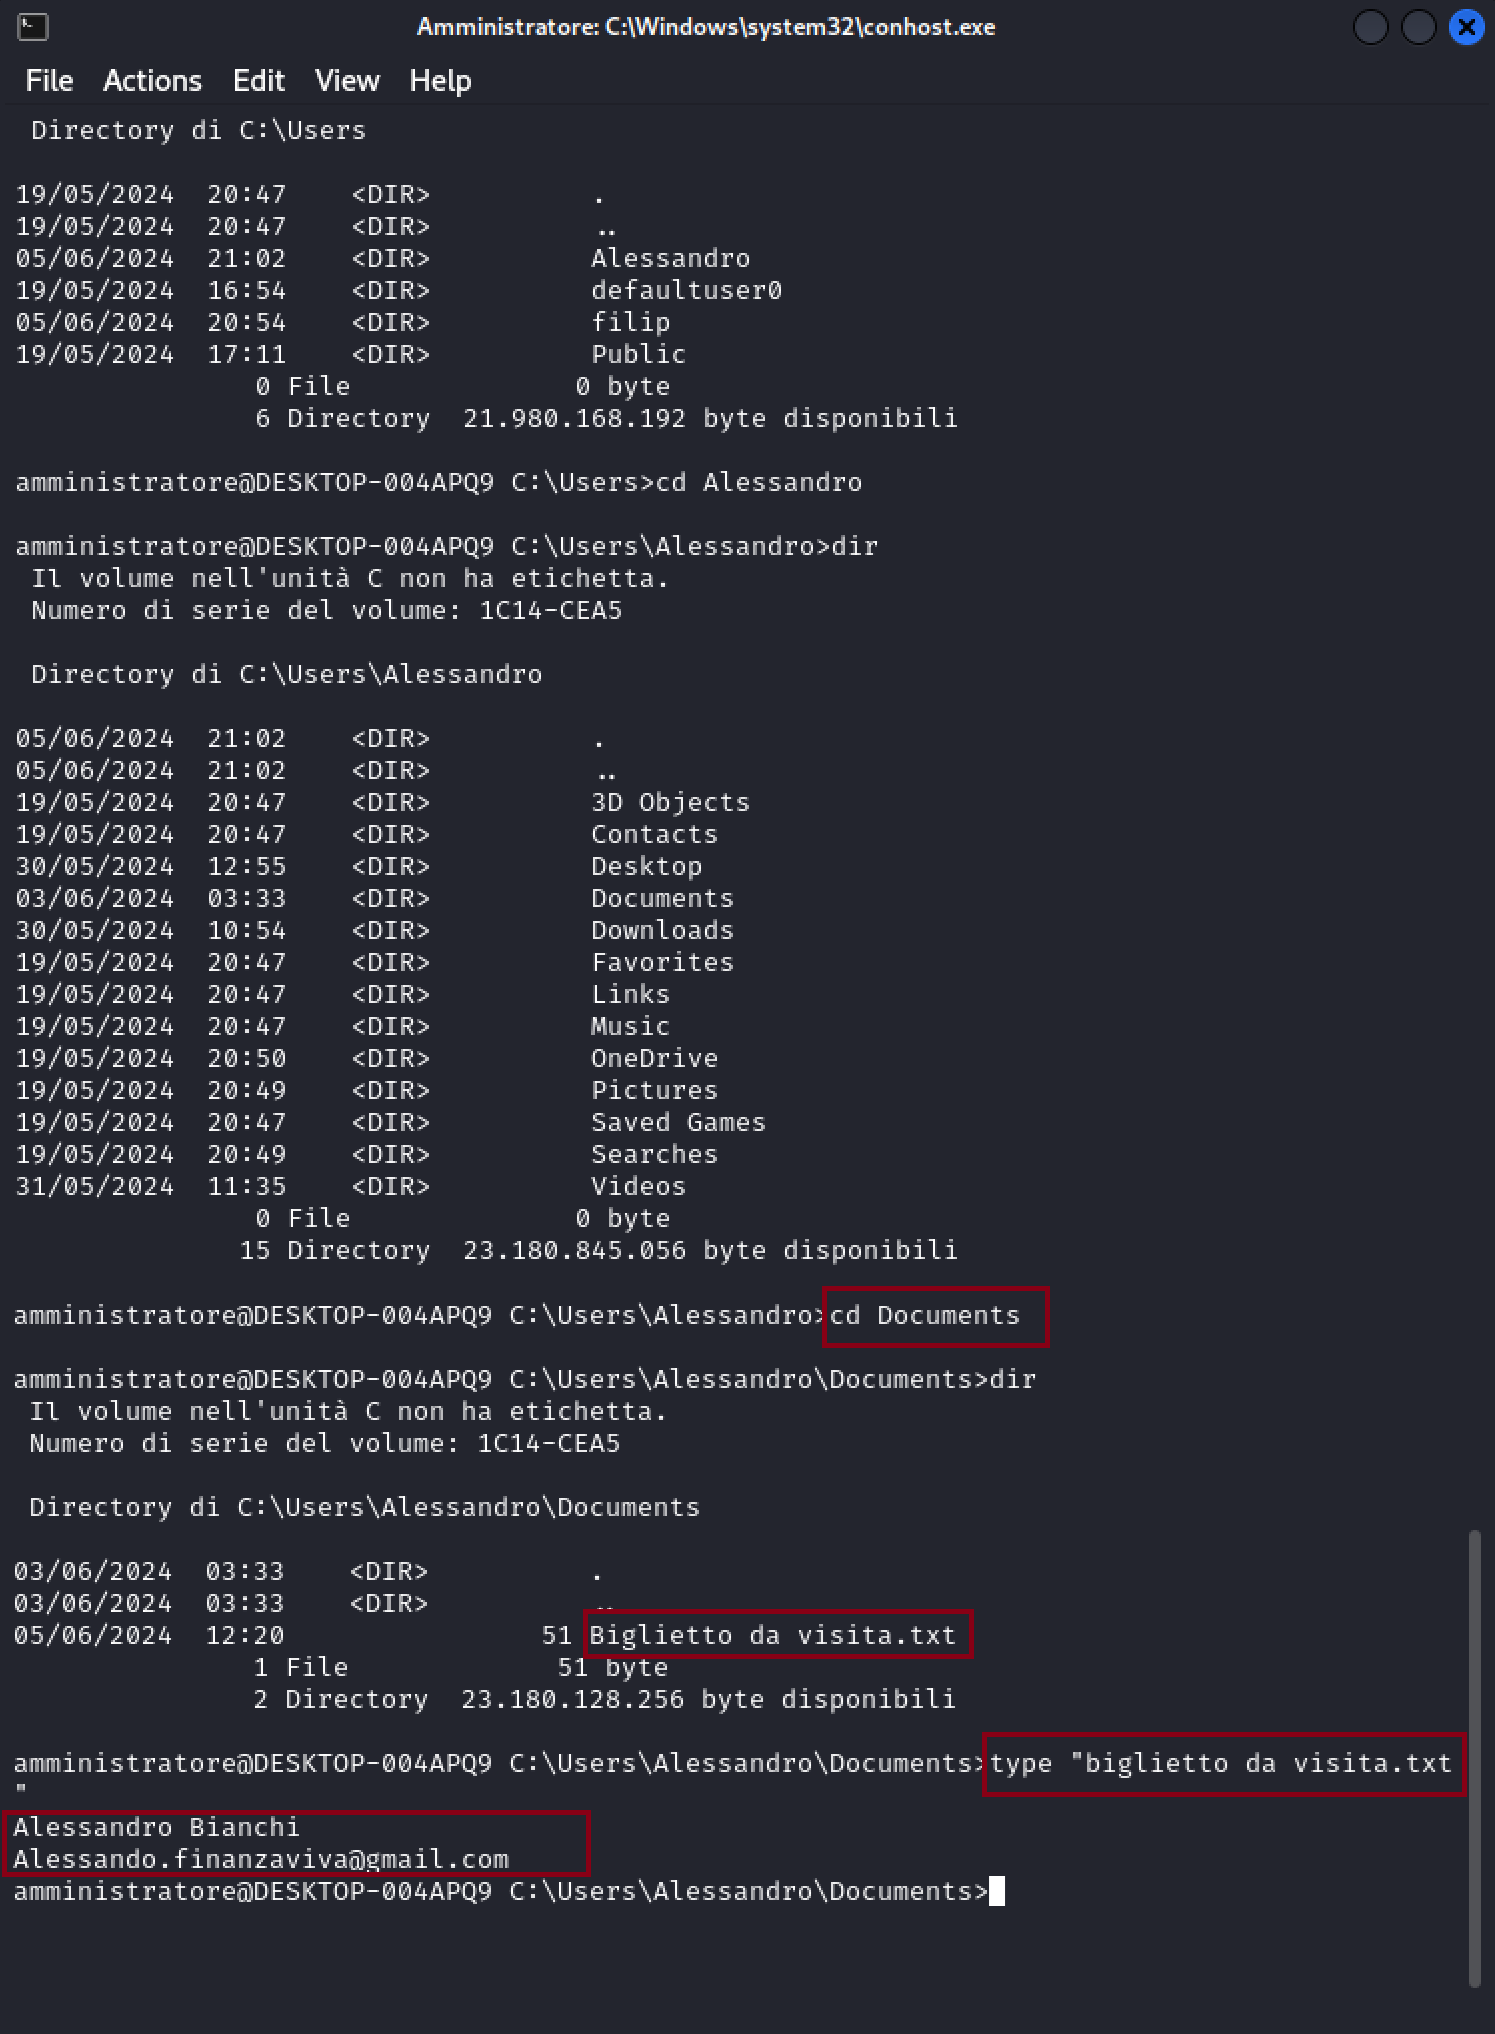
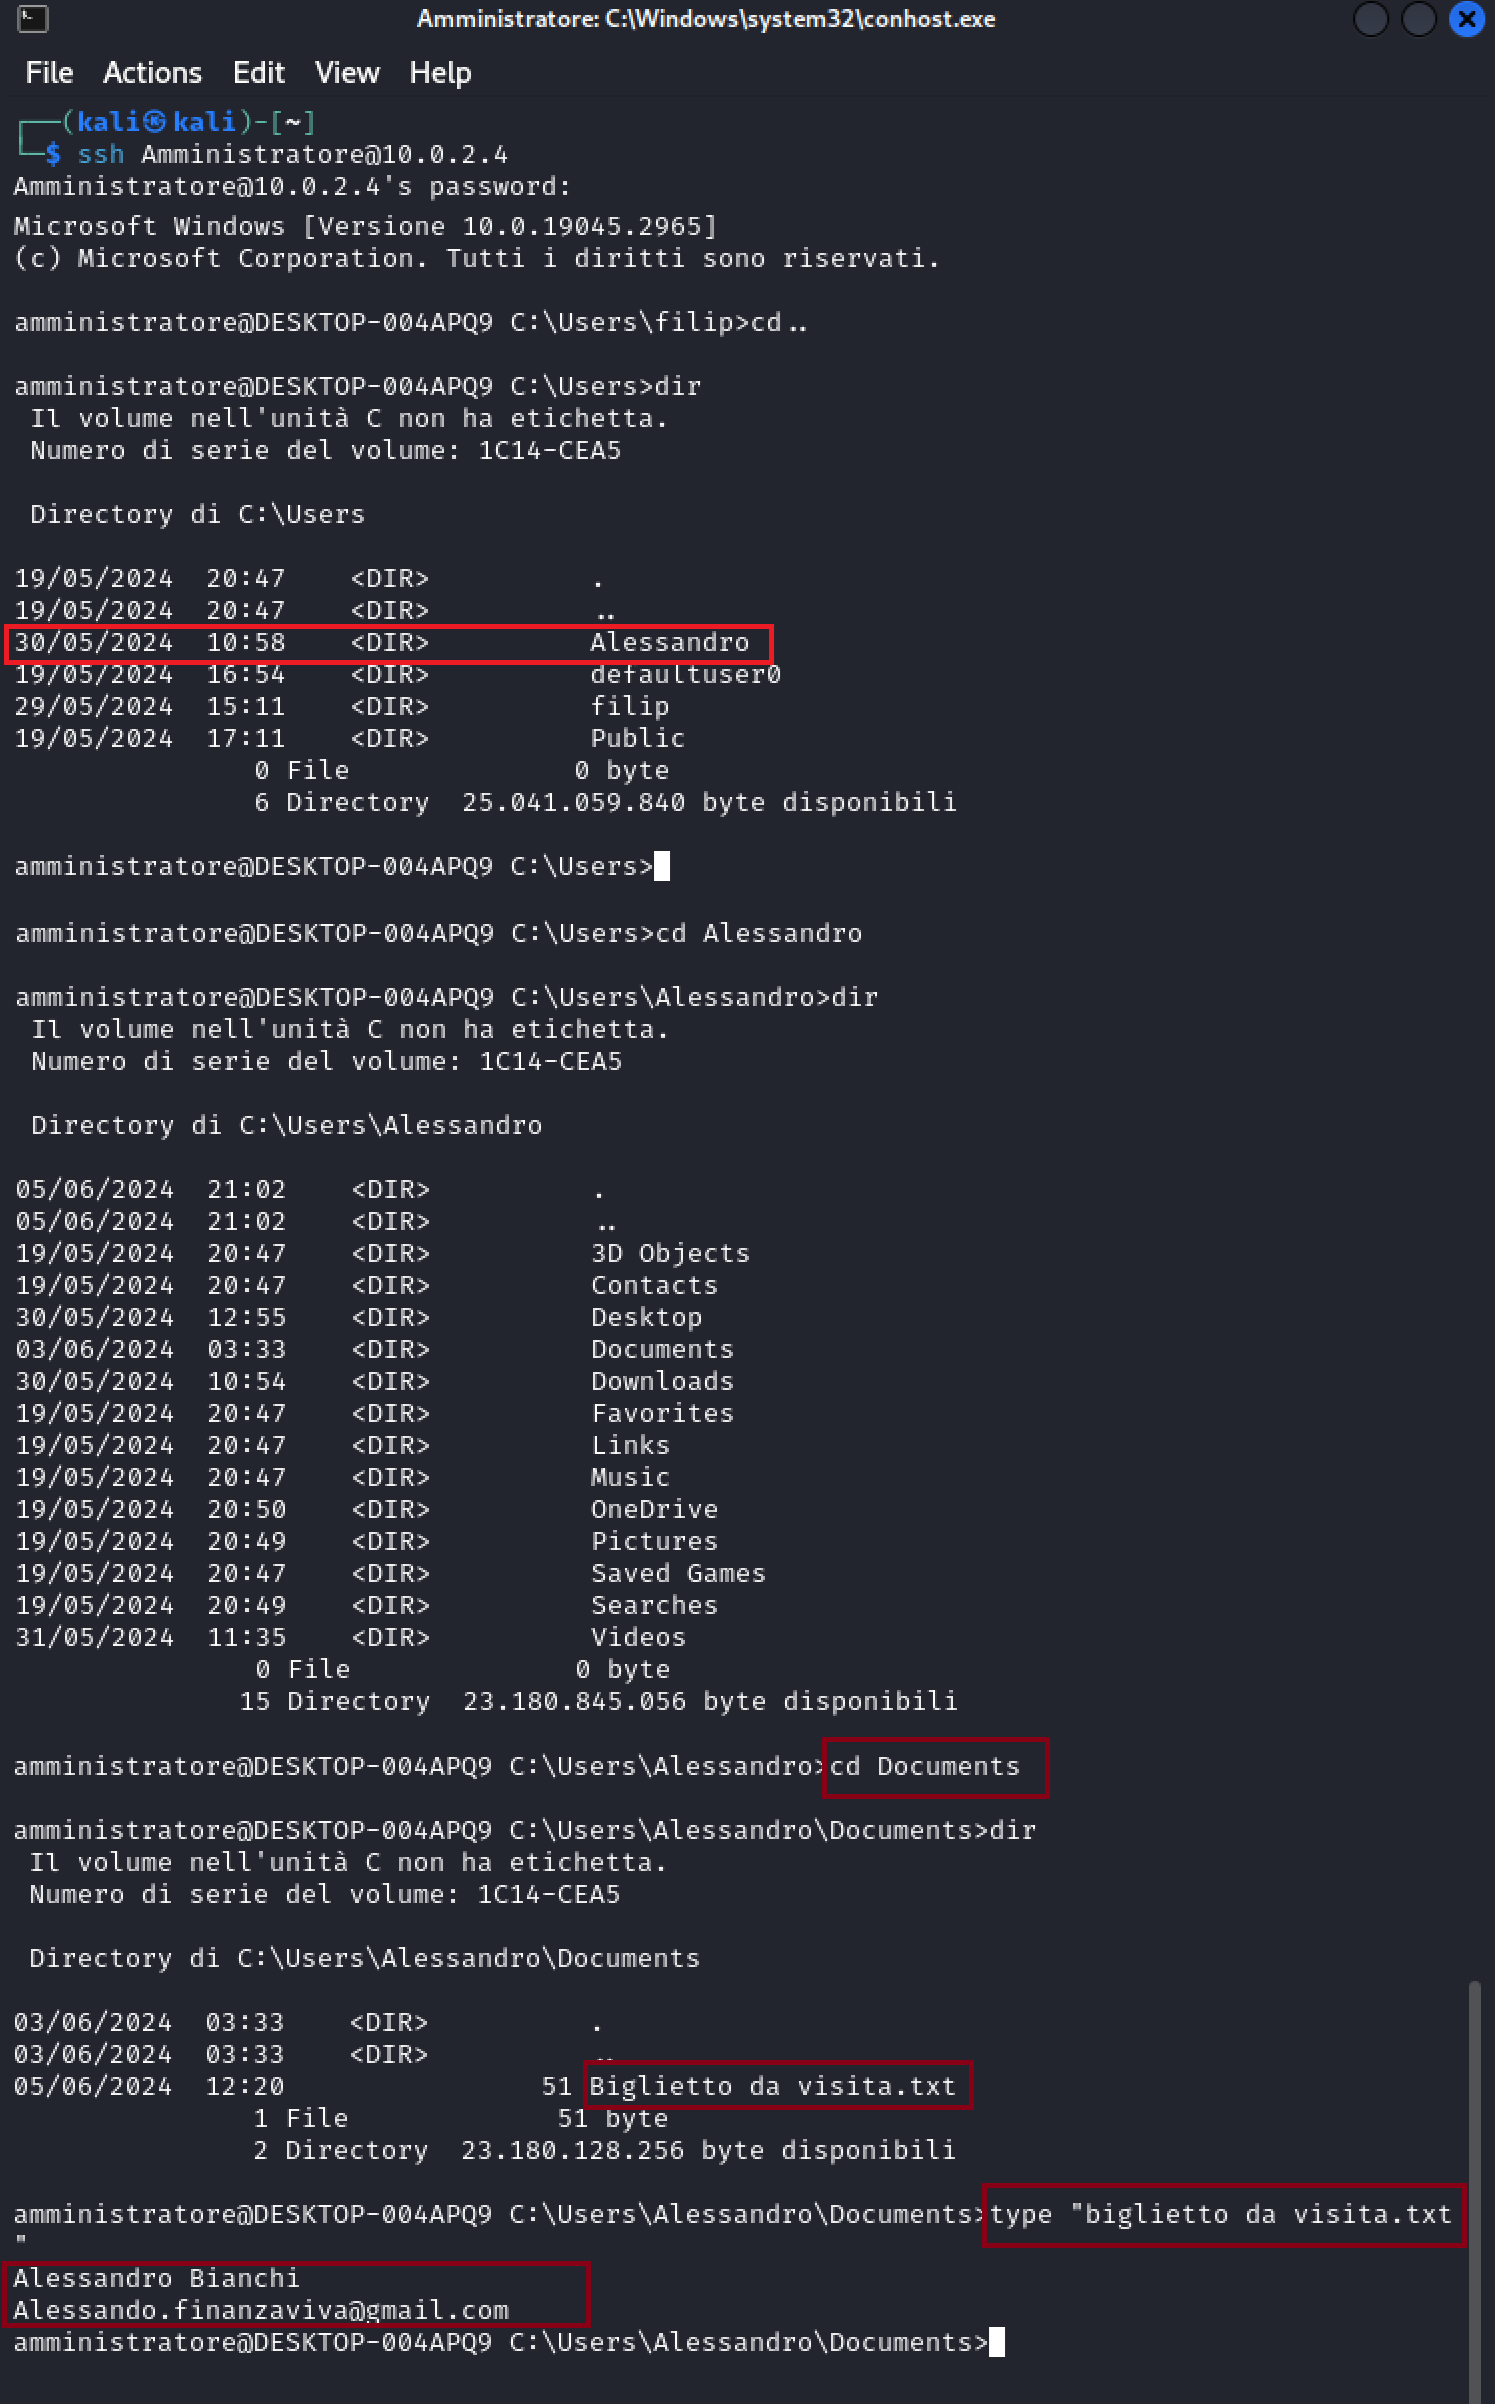
modifiche

diff --git a/home.md b/home.md
@@ -61,11 +61,8 @@ Scopro l'uso di credenziali predefinite da parte dell'amministratore, e procedo 
 
 Ottengo l'accesso alla shell nel dispositivo dell'azienda e, con il comando whoami, verifica l'identità della shell (che è quella dell'amministratore). 
 
-Effettuo una navigazione tra i file e scopro la presenza di un altro utente: Alessandro:
-
-![Descrizione immagine](./images/Discover_utenti.png)
-
-Nella cartella Documents di Alessandro, trovo un file di nome "biglietto da visita", lo apro e trovo le informazioni di contatto di Alessandro come il nome completo e la mail. 
+Effettuo una navigazione tra i file e scopro la presenza di un altro utente: Alessandro.
+Nella sua cartella Documents, trovo un file di nome "biglietto da visita", lo apro e trovo le informazioni di contatto di Alessandro come il nome completo e la mail. 
 
 ![Descrizione immagine](./images/Bigl_da_visita.png)
 
@@ -123,8 +120,6 @@ pyinstaller --onefile --icon=Icona.ico Gestore_di_spesa.py
 
 Questo comando creerà nella directory che ho scelto il file Gestore_di_spesa.exe con l'immagine Icona.ico da me scelta. Successivamente ho cambiato il nome dell'eseguibile in "Manager Spesa".
 
-![Descrizione immagine](./images/file.exe.png)
-
 ### Funzionamento del Software Malevolo
 
 Alessandro scarica e avvia il programma "Manager spesa.exe". Il programma si presenta come una legittima applicazione di gestione delle spese, consentendo all'utente di inserire e monitorare entrate e uscite.
@@ -132,10 +127,6 @@ Alessandro scarica e avvia il programma "Manager spesa.exe". Il programma si pre
 ![Descrizione immagine](./images/Wapp.png)
 
 Tuttavia, al momento della chiusura dell'applicazione, il keylogger nascosto si attiva e inizia a registrare qualsiasi tasto premuto dall'utente.
-
-Dopo la chiusura dell'applicazione, si può notare come in gestione delle attività sia in esecuzione il Gestore di spesa in background:
-
-![Descrizione immagine](./images/Gestattsp.png)
 
 ### Raccolta dei Dati
 
